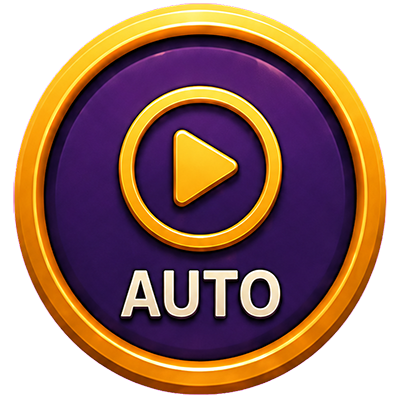
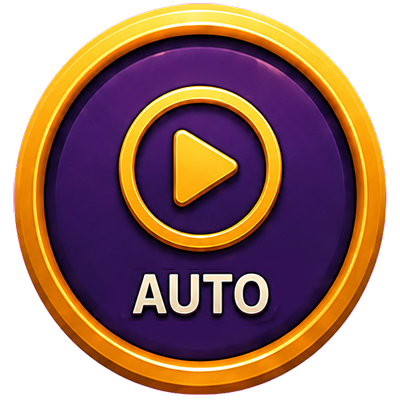
asdfasdf

Changed region(s): [[0.3, 0.66, 0.72, 0.81]]

diff --git a/app.js b/app.js
@@ -16,6 +16,7 @@
   const AUTO_STOP_MIN = 1600;
   const AUTO_STOP_MAX = 3200;
   const AUTO_STOP_STEP = 100;
+  const ASSET_VERSION = '22';
   const WIN_TIER_CONFIG = Object.freeze({
     small: {
       minRatio: 0, maxRatio: 2, label: 'GANHO', settle: 220, lineDuration: 650,
@@ -96,8 +97,7 @@
     autoSliderKnob: 'assets/automatic/botao_spin.png',
     autoMinus: 'assets/automatic/menos.png',
     autoPlus: 'assets/automatic/mais.png',
-    autoStart: 'assets/automatic/iniciar.png',
-    autoClose: 'assets/automatic/fechar.png',
+    autoClose: 'assets/automatic/fechar_largo.png',
   };
   const ASSETS = {};
 
@@ -107,14 +107,19 @@
     onProgress(loaded, entries.length);
     return Promise.all(entries.map(([key, src]) => new Promise((resolve) => {
       const image = new Image();
+      let finished = false;
       const finish = () => {
+        if (finished) return;
+        finished = true;
+        clearTimeout(timeout);
         loaded += 1;
         onProgress(loaded, entries.length);
         resolve();
       };
+      const timeout = setTimeout(finish, 6000);
       image.onload = () => { ASSETS[key] = image; finish(); };
       image.onerror = finish;
-      image.src = src;
+      image.src = `${src}?v=${ASSET_VERSION}`;
     })));
   }
   const PANEL_TIPS = [
@@ -305,7 +310,6 @@
       this.autoActive = false;
       this.autoStartBalance = this.balance;
       this.autoLimits = { loss: AUTO_STOP_MIN, gain: 0, single: 0 };
-      this.autoSelectedCount = 10;
       this.autoStopAmount = AUTO_STOP_MIN;
       this.featureRemaining = 0;
       this.featureTotal = 0;
@@ -612,7 +616,13 @@
       const config = WIN_TIER_CONFIG[this.winTier] || WIN_TIER_CONFIG.small;
       const steps = this.getWinSteps();
       const count = steps.length;
-      const settleDuration = this.turbo ? 90 : config.settle;
+      const baseSettleDuration = this.turbo ? 90 : config.settle;
+      const categoryIntroDuration = this.winTier === 'mega'
+        ? (this.turbo ? 900 : 2200)
+        : this.winTier === 'big'
+          ? (this.turbo ? 760 : 1800)
+          : 0;
+      const settleDuration = baseSettleDuration + categoryIntroDuration;
       const stepDuration = count ? (this.turbo ? 240 : config.lineDuration) : 0;
       const stepEnd = settleDuration + stepDuration * count;
       const rawStepTotal = steps.reduce((sum, step) => sum + step.amount, 0);
@@ -621,6 +631,8 @@
       const transferStart = stepEnd + Math.max(this.turbo ? 120 : 320, finalDuration * 0.34);
       const transferDuration = this.turbo ? 240 : Math.min(760, finalDuration * 0.42);
       return {
+        baseSettleDuration,
+        categoryIntroDuration,
         settleDuration,
         stepDuration,
         stepEnd,
@@ -1955,7 +1967,10 @@
       if (this.state !== 'WIN') return;
       const timing = this.getWinTiming();
       const elapsed = time - this.winStart;
-      if (elapsed < timing.settleDuration) return;
+      if (elapsed < timing.settleDuration) {
+        this.drawWinCategory(time);
+        return;
+      }
       const ctx = this.ctx;
       const pulse = 0.55 + 0.45 * Math.sin((time - this.winStart) * 0.014);
       const steps = this.getWinSteps();
@@ -2127,13 +2142,18 @@
       // A vitória máxima já possui uma celebração de tela inteira. Evita repetir
       // o mesmo título no banner intermediário enquanto o overlay está visível.
       if (this.winTier === 'max') return;
+      if (this.winTier === 'big' || this.winTier === 'mega') {
+        const introElapsed = elapsed - timing.baseSettleDuration;
+        if (introElapsed < 0 || introElapsed >= timing.categoryIntroDuration) return;
+        const fadeDuration = this.turbo ? 150 : 300;
+        const appear = clamp(introElapsed / fadeDuration, 0, 1)
+          * clamp((timing.categoryIntroDuration - introElapsed) / fadeDuration, 0, 1);
+        this.drawWinCategoryArtwork(time, introElapsed, appear);
+        return;
+      }
       if (!this.lineShowAll || elapsed < timing.stepEnd) return;
       const finalElapsed = elapsed - timing.stepEnd;
       const appear = clamp(finalElapsed / 380, 0, 1) * clamp((timing.totalDuration - elapsed) / 320, 0, 1);
-      if (this.winTier === 'big' || this.winTier === 'mega') {
-        this.drawWinCategoryArtwork(time, finalElapsed, appear);
-        return;
-      }
       const category = {
         small: { label: 'GANHO', color: '#fff5c4', width: 300, font: 30 },
         medium: { label: 'ÓTIMO GANHO', color: '#fff0a3', width: 390, font: 34 },
@@ -2184,7 +2204,7 @@
       if (!artwork) return;
       const ctx = this.ctx;
       const cx = 390;
-      const cy = isMega ? 995 : 1035;
+      const cy = isMega ? 790 : 825;
       const entryDuration = isMega ? 520 : 440;
       const entry = easeOutBack(clamp(finalElapsed / entryDuration, 0, 1));
       const scale = (isMega ? 0.62 : 0.7) + entry * (isMega ? 0.38 : 0.3);
@@ -2194,6 +2214,29 @@
 
       ctx.save();
       ctx.globalAlpha = appear;
+
+      // Vinheta escura no formato dos três rolos. Mantém cenário intacto e
+      // elimina competição visual dos símbolos atrás da placa de celebração.
+      ctx.save();
+      ctx.beginPath();
+      ctx.moveTo(31, 449);
+      ctx.lineTo(275, 449);
+      ctx.lineTo(275, 403);
+      ctx.lineTo(506, 403);
+      ctx.lineTo(506, 449);
+      ctx.lineTo(749, 449);
+      ctx.lineTo(749, 1205);
+      ctx.lineTo(31, 1205);
+      ctx.closePath();
+      ctx.clip();
+      const veil = ctx.createRadialGradient(cx, cy, 105, cx, cy, 520);
+      veil.addColorStop(0, isMega ? 'rgba(20,5,34,0.36)' : 'rgba(20,8,20,0.4)');
+      veil.addColorStop(0.48, isMega ? 'rgba(11,3,26,0.63)' : 'rgba(12,5,17,0.64)');
+      veil.addColorStop(1, 'rgba(3,2,10,0.78)');
+      ctx.fillStyle = veil;
+      ctx.fillRect(20, 395, 740, 820);
+      ctx.restore();
+
       ctx.translate(cx, cy);
 
       // Clarão circular e raios curtos, restritos à área dos rolos.
@@ -2240,8 +2283,8 @@
       ctx.save();
       ctx.scale(scale * pulse, scale * pulse);
       ctx.shadowColor = isMega ? '#ff66d2' : '#ffc94c';
-      ctx.shadowBlur = isMega ? 34 + burst * 24 : 24 + burst * 18;
-      this.drawImageContain(artwork, 0, 0, isMega ? 520 : 485, isMega ? 420 : 335);
+      ctx.shadowBlur = isMega ? 42 + burst * 28 : 32 + burst * 22;
+      this.drawImageContain(artwork, 0, 0, isMega ? 610 : 570, isMega ? 500 : 400);
       ctx.restore();
       ctx.restore();
     }
@@ -2728,10 +2771,6 @@
       if (this.state === 'IDLE') this.spin();
     }
 
-    selectAutoCount(count) {
-      this.autoSelectedCount = count;
-    }
-
     adjustAutoStopAmount(direction) {
       this.autoStopAmount = clamp(
         this.autoStopAmount + direction * AUTO_STOP_STEP,
@@ -2941,7 +2980,7 @@
       ctx.restore();
 
       // A arte-base trazia um X no cabeçalho. Ele é neutralizado porque o
-      // controle real fica ao lado de INICIAR, dentro da zona de ação.
+      // único controle de fechar agora fica na base do painel.
       const oldCloseX = mapX(1177);
       const oldCloseY = mapY(221);
       ctx.save();
@@ -2959,14 +2998,14 @@
       const countY = mapY(454);
       counts.forEach((count, index) => {
         const id = `auto-${count}`;
-        const selected = this.autoSelectedCount === count;
-        if (selected || (this.buttonPress && this.buttonPress.id === id && time < this.buttonPress.until)) {
+        const pressedNow = this.buttonPress && this.buttonPress.id === id && time < this.buttonPress.until;
+        if (pressedNow) {
           const pressed = this.pressScale(id, time);
           ctx.save();
           ctx.translate(countCenters[index], countY);
           ctx.scale(pressed, pressed);
           ctx.shadowColor = '#ffcc3d';
-          ctx.shadowBlur = selected ? 14 : 7;
+          ctx.shadowBlur = 14;
           this.drawImageContain(ASSETS.autoSelection, 0, 0, 104, 63);
           ctx.fillStyle = '#ffe56a';
           ctx.strokeStyle = '#6b2609';
@@ -2978,7 +3017,7 @@
           ctx.fillText(String(count), 0, 2);
           ctx.restore();
         }
-        this.hit(countCenters[index] - 54, countY - 36, 108, 72, () => this.selectAutoCount(count), id);
+        this.hit(countCenters[index] - 54, countY - 36, 108, 72, () => this.startAuto(count), id);
       });
 
       ctx.save();
@@ -3026,32 +3065,19 @@
         this.hit(button.x - 42, sliderY - 40, 84, 80, button.action, button.id);
       });
 
-      const startY = mapY(966);
-      const startX = 345;
-      const startW = 268;
-      const startH = 73;
-      const closeX = 575;
-      const closeY = startY;
+      const closeX = 390;
+      const closeY = mapY(966);
+      const closeW = 238;
+      const closeH = 65;
       const closePressed = this.pressScale('auto-close', time);
       ctx.save();
       ctx.translate(closeX, closeY);
       ctx.scale(closePressed, closePressed);
-      const closePulse = 0.7 + Math.sin(time * 0.008) * 0.3;
-      ctx.shadowColor = '#ff513d';
-      ctx.shadowBlur = 18 + closePulse * 12;
-      this.drawImageContain(ASSETS.autoClose, 0, 0, 68, 75);
-      ctx.restore();
-      this.hit(closeX - 43, closeY - 45, 86, 90, () => this.closeOverlay(), 'auto-close');
-
-      const startPressed = this.pressScale('auto-start', time);
-      ctx.save();
-      ctx.translate(startX, startY);
-      ctx.scale(startPressed, startPressed);
-      ctx.shadowColor = '#7dff4c';
+      ctx.shadowColor = '#ffbe43';
       ctx.shadowBlur = 12;
-      this.drawImageContain(ASSETS.autoStart, 0, 0, startW, startH);
+      this.drawImageContain(ASSETS.autoClose, 0, 0, closeW, closeH);
       ctx.restore();
-      this.hit(startX - startW / 2 - 8, startY - startH / 2 - 8, startW + 16, startH + 16, () => this.startAuto(this.autoSelectedCount), 'auto-start');
+      this.hit(closeX - closeW / 2 - 10, closeY - closeH / 2 - 10, closeW + 20, closeH + 20, () => this.closeOverlay(), 'auto-close');
     }
 
     drawPaytableOverlay() {

diff --git a/tests/project.test.js b/tests/project.test.js
@@ -79,11 +79,23 @@ assert.match(app, /if \(this\.overlay === 'auto'\)/);
 assert.match(app, /AUTO_STOP_MIN = 1600/);
 assert.match(app, /AUTO_STOP_MAX = 3200/);
 assert.match(app, /adjustAutoStopAmount/);
-assert.match(app, /autoSelectedCount/);
+assert.doesNotMatch(app, /autoSelectedCount/);
+assert.match(app, /\(\) => this\.startAuto\(count\), id/);
+assert.doesNotMatch(app, /ASSETS\.autoStart/);
 assert.match(app, /target\.id !== 'turbo'/);
 assert.match(app, /panelQueue/);
 assert.doesNotMatch(app, /drawOpeningOverlay/);
 assert.match(app, /loadAssets\(onProgress/);
+assert.match(app, /setTimeout\(finish, 6000\)/);
+assert.match(html, /app\.js\?v=22/);
+assert.match(app, /if \(elapsed < timing\.settleDuration\) \{\s*this\.drawWinCategory\(time\);\s*return;/);
+assert.match(app, /const ASSET_VERSION = '22'/);
+assert.match(app, /image\.src = `\$\{src\}\?v=\$\{ASSET_VERSION\}`/);
+assert.match(app, /categoryIntroDuration/);
+assert.match(app, /this\.turbo \? 900 : 2200/);
+assert.match(app, /this\.turbo \? 760 : 1800/);
+assert.match(app, /Vinheta escura no formato dos três rolos/);
+assert.match(app, /isMega \? 610 : 570/);
 assert.match(app, /loadingProgress\.style\.width/);
 assert.match(app, /stopAuto/);
 assert.match(app, /drawCelebrationMascot/);
@@ -138,8 +150,8 @@ for (const autoAsset of [
   'botao_spin.png',
   'menos.png',
   'mais.png',
-  'iniciar.png',
   'fechar.png',
+  'fechar_largo.png',
 ]) {
   assert.ok(fs.existsSync(path.join(root, 'assets/automatic', autoAsset)));
 }

diff --git a/index.html b/index.html
@@ -22,6 +22,6 @@
       <div id="liveStatus" class="sr-only" aria-live="polite"></div>
     </main>
     <script src="game-core.js?v=8"></script>
-    <script src="app.js?v=17"></script>
+    <script src="app.js?v=22"></script>
   </body>
 </html>

diff --git a/CHECKLIST.md b/CHECKLIST.md
@@ -13,6 +13,8 @@ Legenda:
 
 ## Concluído
 
+- [x] Rodada automática inicia imediatamente ao escolher 10, 30, 50, 80 ou 100 rodadas; botão INICIAR e X antigo removidos; novo botão FECHAR adicionado na base.
+
 ### Leitura de nível e acabamento do display — 18/07/2026
 
 - [x] Mostrar `APOSTA 2` até `APOSTA 9` no display ao alterar o nível; preservar mensagens mínima e máxima nos limites.
@@ -36,6 +38,9 @@ Legenda:
 
 - [x] Classificar ganhos por razão sobre a aposta: pequena `<2×`, média `2–10×`, grande `10–50×`, mega `50–100×` e máxima `≥100×`.
 - [x] Substituir os títulos textuais de Grande e Mega Ganho por artes próprias, com entrada luminosa e efeitos distintos.
+- [x] Centralizar as artes de Grande e Mega Ganho e aplicar vinheta escura recortada somente sobre os rolos.
+- [x] Exibir Grande e Mega Ganho antes da sequência individual das linhas vencedoras.
+- [x] Versionar URLs dos assets para atualizar imagens modificadas também no servidor Python.
 - [x] Manter as faixas e intensidades configuráveis em um único mapa no código.
 - [x] Preservar o resultado completo por `90–250 ms` antes de iniciar qualquer destaque.
 - [x] Apresentar combinações vencedoras uma por vez e reunir todas somente no fechamento.